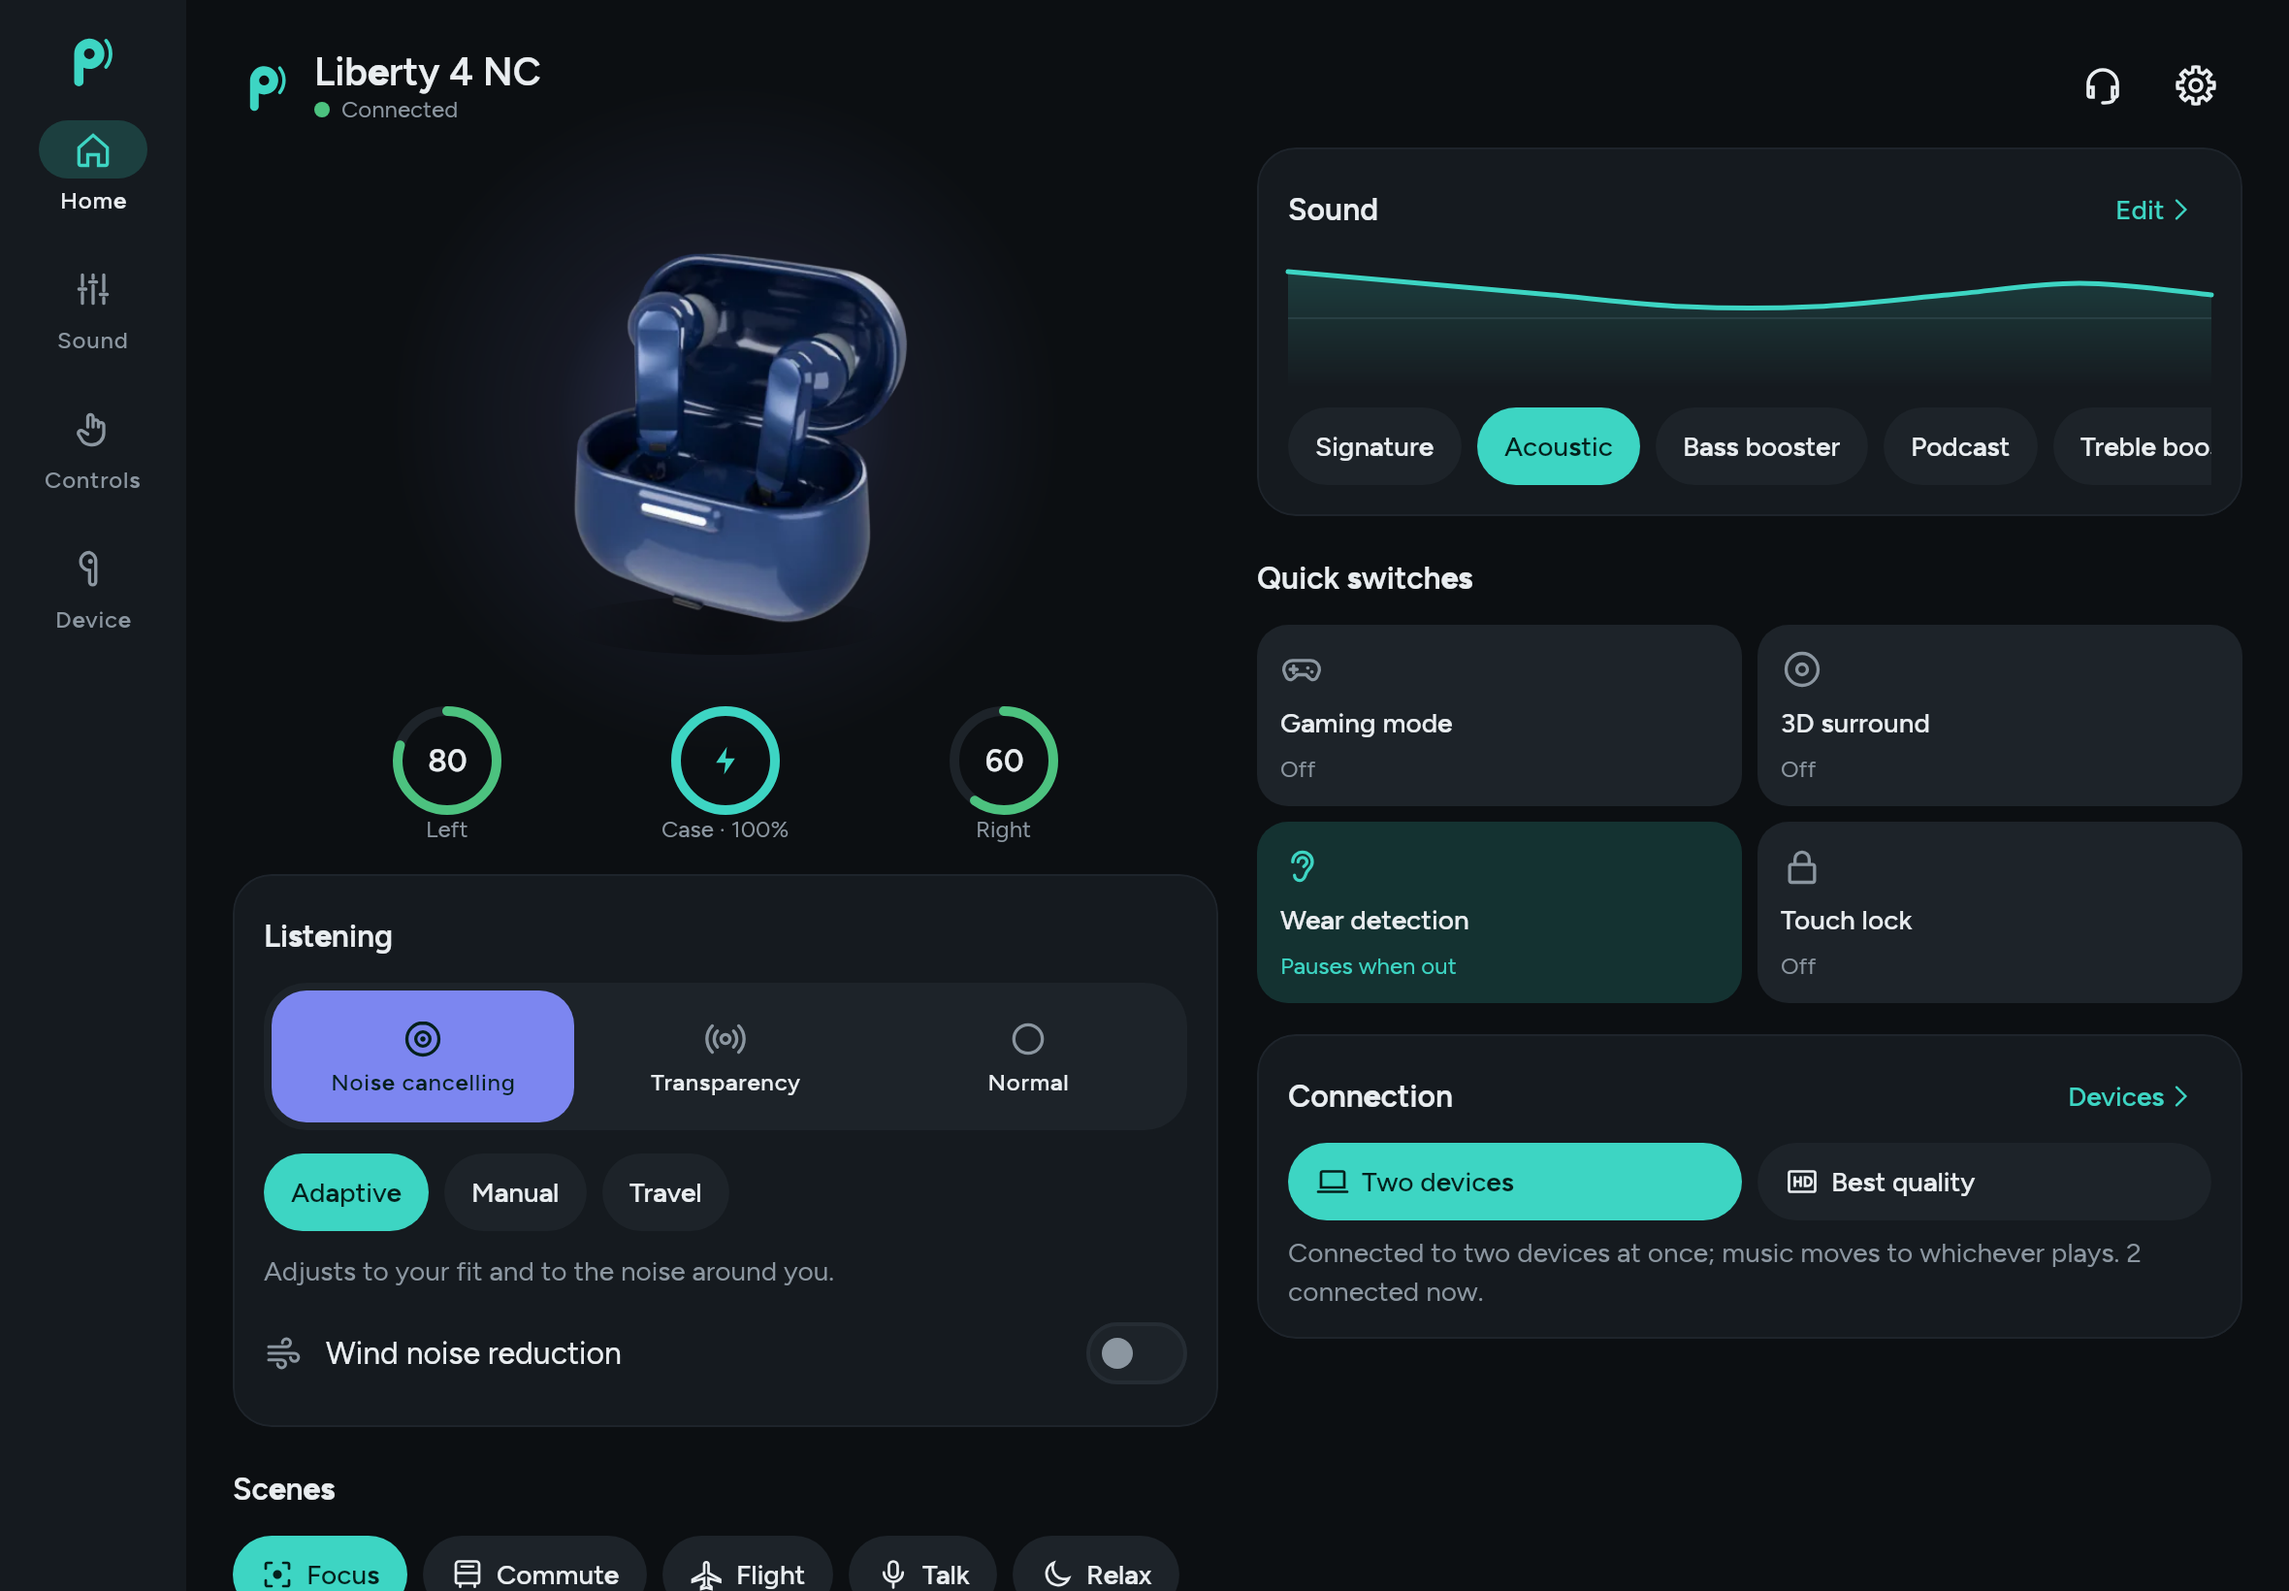
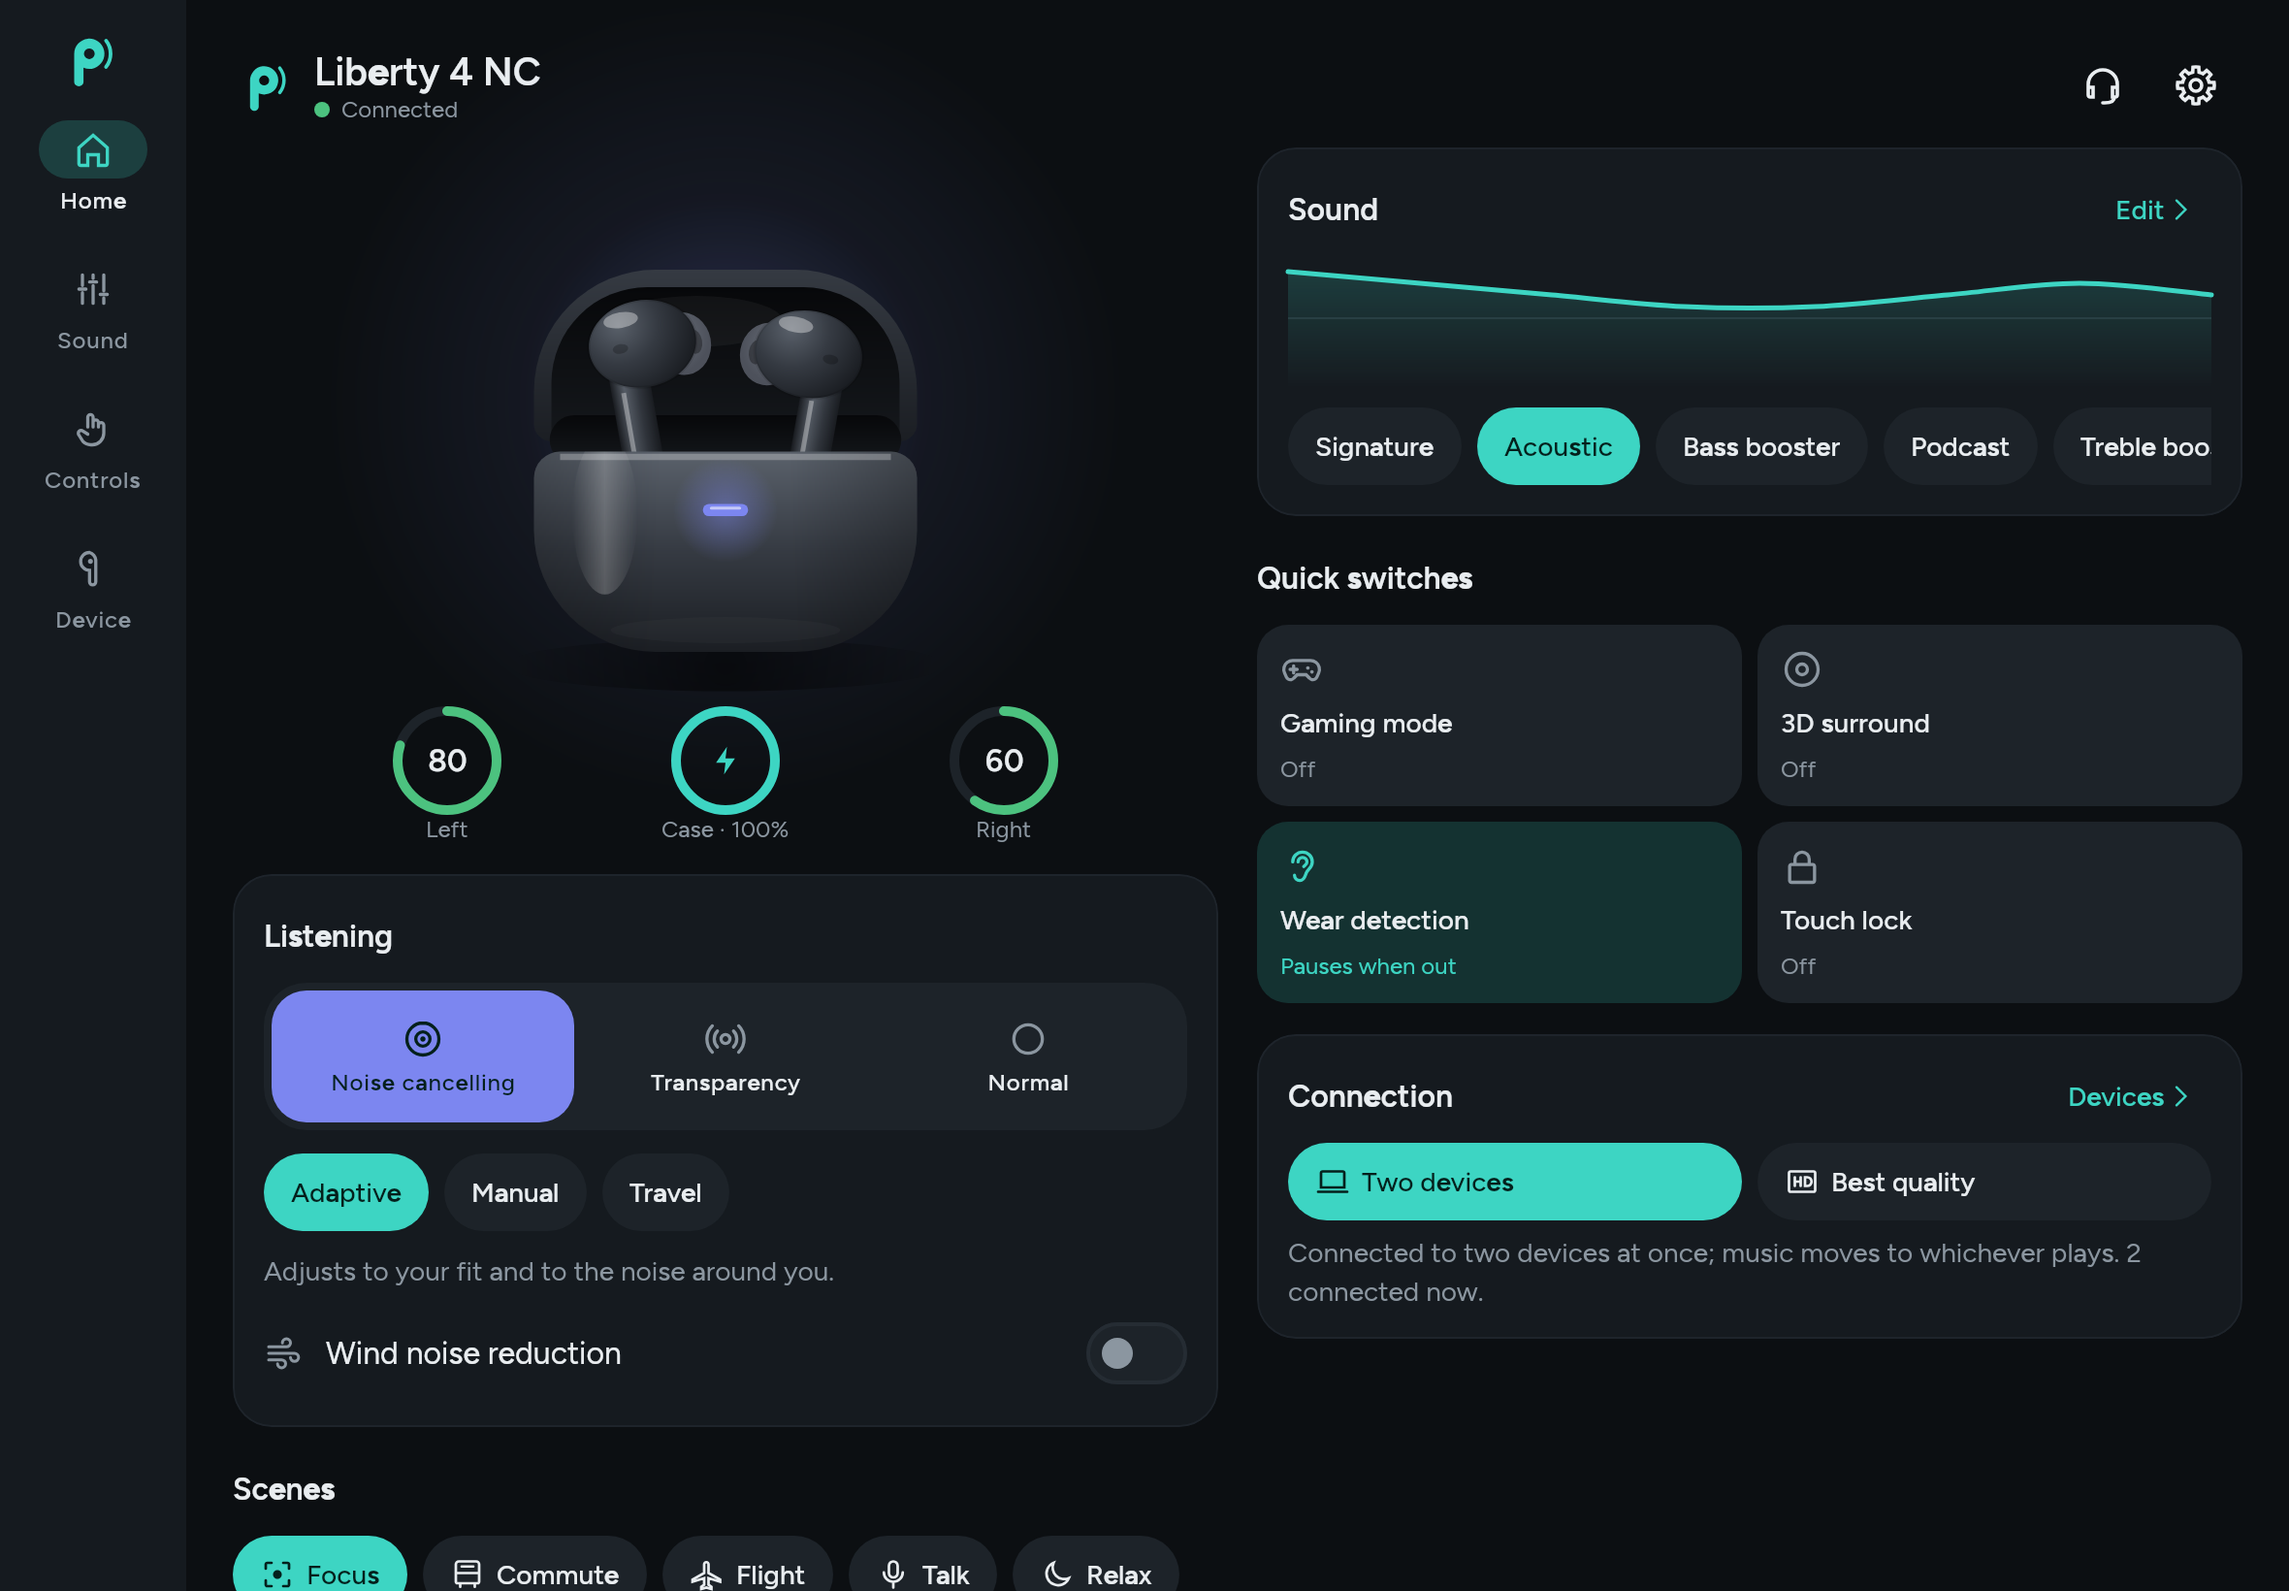
Home and My devices show the drawn case or headphones; screenshots

Changed region(s): [[0.2165, 0.1555, 0.4021, 0.4043]]

diff --git a/ui/src/jvmTest/kotlin/com/blazify/buds/ui/ArtShots.kt b/ui/src/jvmTest/kotlin/com/blazify/buds/ui/ArtShots.kt
@@ -1,0 +1,46 @@
+package com.blazify.buds.ui
+
+import androidx.compose.foundation.Canvas
+import androidx.compose.foundation.background
+import androidx.compose.foundation.layout.Column
+import androidx.compose.foundation.layout.Row
+import androidx.compose.foundation.layout.size
+import androidx.compose.ui.ImageComposeScene
+import androidx.compose.ui.Modifier
+import androidx.compose.ui.graphics.Color
+import androidx.compose.ui.unit.Density
+import androidx.compose.ui.unit.dp
+import androidx.compose.ui.use
+import com.blazify.buds.ui.blocks.Graphite
+import com.blazify.buds.ui.blocks.Pearl
+import com.blazify.buds.ui.blocks.drawCase
+import com.blazify.buds.ui.blocks.drawHeadphones
+import org.jetbrains.skia.EncodedImageFormat
+import java.io.File
+import kotlin.test.Test
+
+/** The drawn devices at each step of opening, in both looks, for checking them by eye. Only with SHOTS_DIR set. */
+class ArtShots {
+    @Test
+    fun drawDevices() {
+        val dir = System.getenv("SHOTS_DIR")?.let(::File) ?: return
+        dir.mkdirs()
+        val teal = Color(0xFF3DD5C3)
+        ImageComposeScene(1500 * 2, 640 * 2, Density(2f)) {
+            Column {
+                for ((finish, bg, dark) in listOf(Triple(Pearl, Color(0xFFF5F7F8), false), Triple(Graphite, Color(0xFF0C0F12), true))) {
+                    Row(Modifier.background(bg)) {
+                        for (open in listOf(0f, 0.45f, 1f)) {
+                            Canvas(Modifier.size(300.dp, 320.dp)) { drawCase(finish, open, open, open, 0f, if (open > 0.9f) teal else Color.Transparent, dark) }
+                        }
+                        for (open in listOf(0f, 1f)) {
+                            Canvas(Modifier.size(300.dp, 320.dp)) { drawHeadphones(finish, open, 0f, if (open > 0.9f) teal else Color.Transparent, dark) }
+                        }
+                    }
+                }
+            }
+        }.use { scene ->
+            File(dir, "art.png").writeBytes(scene.render().encodeToData(EncodedImageFormat.PNG)!!.bytes)
+        }
+    }
+}

diff --git a/ui/src/commonMain/kotlin/com/blazify/buds/ui/screens/DevicesScreens.kt b/ui/src/commonMain/kotlin/com/blazify/buds/ui/screens/DevicesScreens.kt
@@ -45,7 +45,8 @@ import com.blazify.buds.ui.blocks.AddArt
 import com.blazify.buds.ui.blocks.CardShape
 import com.blazify.buds.ui.blocks.Choice
 import com.blazify.buds.ui.blocks.DeviceArt
-import com.blazify.buds.ui.blocks.frames
+import com.blazify.buds.ui.blocks.CaseHero
+import com.blazify.buds.ui.blocks.HeadphonesHero
 import androidx.compose.foundation.Image
 import androidx.compose.ui.graphics.graphicsLayer
 import org.jetbrains.compose.resources.painterResource
@@ -169,16 +170,11 @@ private fun DeviceRow(row: Pair2, chosen: Boolean, onClick: () -> Unit) {
         horizontalArrangement = Arrangement.spacedBy(12.dp),
     ) {
         val kind = Catalog.kind(row.device.name)
-        val frames = frames(Catalog.art(row.device.name), kind)
         Box(Modifier.size(84.dp), contentAlignment = Alignment.Center) {
-            if (frames != null) {
-                Image(
-                    painterResource(if (row.device.connected) frames.shown else frames.closed),
-                    null,
-                    Modifier.fillMaxSize().graphicsLayer { alpha = if (row.device.connected) 1f else 0.75f },
-                )
-            } else {
-                DeviceArt(kind, size = 72.dp, active = row.device.connected)
+            when (kind) {
+                com.blazify.buds.core.catalog.Kind.Headphones -> HeadphonesHero(row.device.connected, null, height = 84.dp, still = true)
+                com.blazify.buds.core.catalog.Kind.Speaker -> DeviceArt(kind, size = 72.dp, active = row.device.connected)
+                else -> CaseHero(row.device.connected, null, leftOut = true, rightOut = true, height = 84.dp, still = true)
             }
         }
         Column(Modifier.weight(1f), verticalArrangement = Arrangement.spacedBy(4.dp)) {

diff --git a/ui/src/commonMain/kotlin/com/blazify/buds/ui/screens/HomeScreen.kt b/ui/src/commonMain/kotlin/com/blazify/buds/ui/screens/HomeScreen.kt
@@ -19,8 +19,7 @@ import androidx.compose.foundation.layout.only
 import com.blazify.buds.core.catalog.Catalog
 import com.blazify.buds.core.catalog.Kind
 import com.blazify.buds.ui.blocks.CaseHero
-import com.blazify.buds.ui.blocks.ModelViewer
-import com.blazify.buds.ui.blocks.frames
+import com.blazify.buds.ui.blocks.HeadphonesHero
 import com.blazify.buds.ui.blocks.DeviceArt
 import androidx.compose.foundation.layout.fillMaxSize
 import androidx.compose.foundation.layout.fillMaxWidth
@@ -199,12 +198,10 @@ private fun LinkBanner(state: BudsState, retry: () -> Unit, bluetoothOn: Boolean
 @Composable
 private fun Earbuds(state: BudsState, heroHeight: androidx.compose.ui.unit.Dp) {
     Column(verticalArrangement = Arrangement.spacedBy(8.dp)) {
-        val frames = frames(Catalog.art(state.name), Catalog.kind(state.name))
-        if (frames != null) {
-            ModelViewer(frames, connected = state.isReady, mode = state.sound?.mode, height = heroHeight)
-        } else when (Catalog.kind(state.name)) {
-            Kind.Headphones, Kind.Speaker -> Box(Modifier.fillMaxWidth().height(heroHeight), contentAlignment = Alignment.Center) {
-                DeviceArt(Catalog.kind(state.name), size = heroHeight * 0.8f, active = state.isReady)
+        when (Catalog.kind(state.name)) {
+            Kind.Headphones -> HeadphonesHero(connected = state.isReady, mode = state.sound?.mode, height = heroHeight)
+            Kind.Speaker -> Box(Modifier.fillMaxWidth().height(heroHeight), contentAlignment = Alignment.Center) {
+                DeviceArt(Kind.Speaker, size = heroHeight * 0.8f, active = state.isReady)
             }
             else -> CaseHero(
                 connected = state.isReady,
